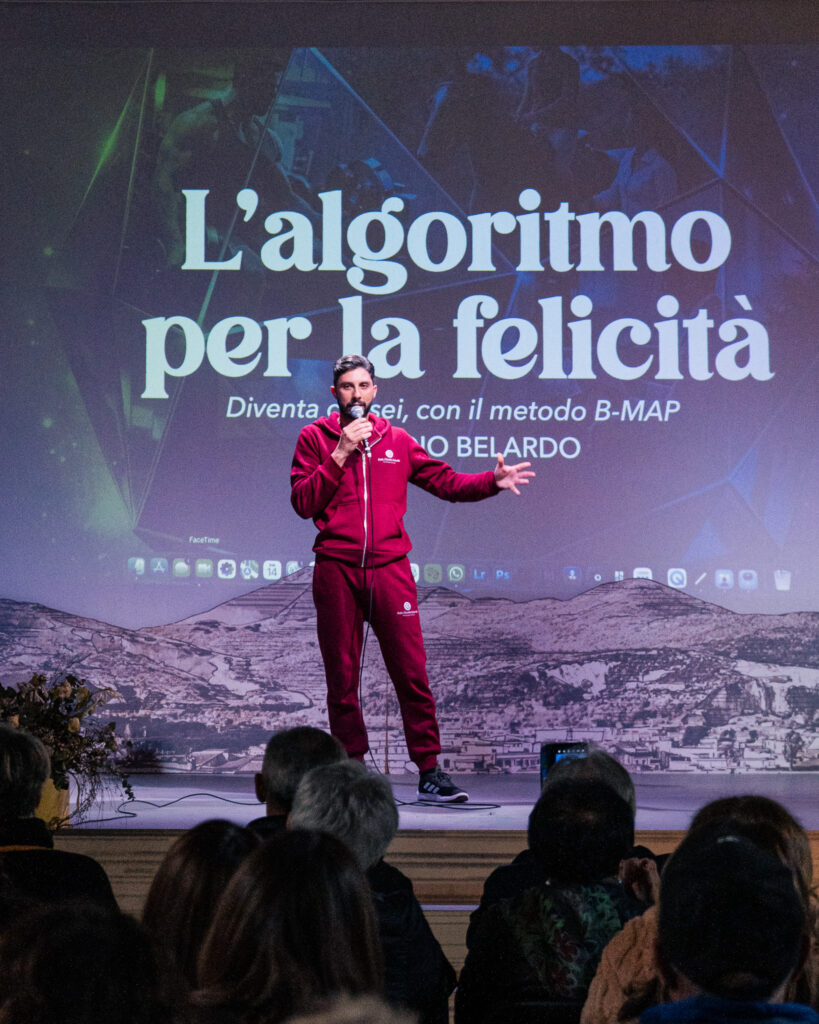
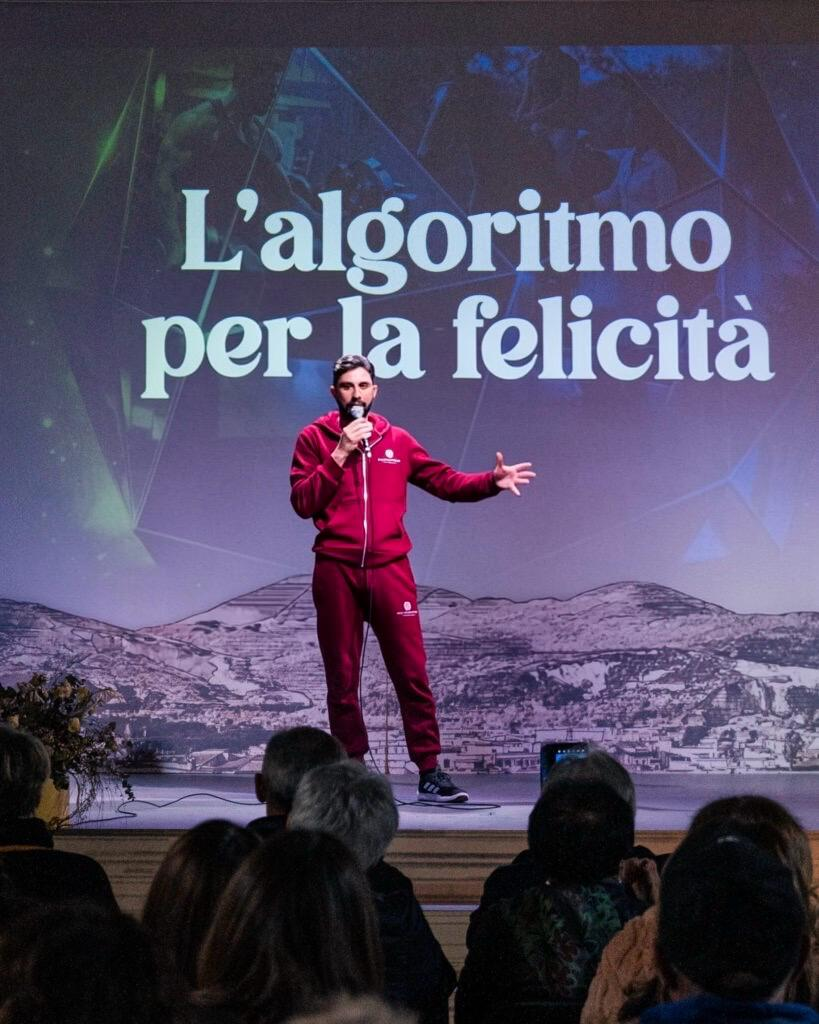
porcodio

Changed region(s): [[0.1526, 0.3125, 0.8242, 0.625], [0.7021, 0.5312, 0.9768, 0.5938]]

diff --git a/prenotazioni.html b/prenotazioni.html
@@ -195,47 +195,7 @@
       color: var(--ink);
     }
 
-    /* ---------- COME FUNZIONA: percorso a 3 fasi ---------- */
-    .steps-section { margin-bottom: 56px; }
-    .steps-section h2 {
-      font-size: 22px; text-align: center; margin-bottom: 40px;
-    }
-    .steps {
-      display: flex; justify-content: space-between; align-items: flex-start; position: relative;
-    }
-    .step {
-      position: relative; text-align: center; padding: 0 14px; flex: 1;
-      opacity: 0; transform: translateY(14px);
-      animation: fadeUp .6s var(--ease) forwards;
-    }
-    .step:nth-of-type(2) { animation-delay: .15s; }
-    .step:nth-of-type(3) { animation-delay: .3s; }
-    .step:not(:last-child)::after {
-      content: ''; position: absolute; top: 26px; left: 50%; width: 100%; height: 1.5px;
-      background: var(--ink); z-index: 1; transform-origin: left center; transform: scaleX(0);
-      animation: lineFill 1s var(--ease) forwards; animation-delay: .6s;
-    }
-    @keyframes lineFill { to { transform: scaleX(1); } }
-    .step-circle {
-      width: 52px; height: 52px; border-radius: 50%; background: #ffffff;
-      border: 1.5px solid var(--ink); margin: 0 auto 18px; position: relative; z-index: 2;
-      display: flex; align-items: center; justify-content: center;
-      animation: popIn .5s var(--ease) both; animation-delay: .35s;
-    }
-    @keyframes popIn { 0% { transform: scale(.6); } 70% { transform: scale(1.08); } 100% { transform: scale(1); } }
-    .step-circle svg { width: 20px; height: 20px; stroke: var(--ink); }
-    .step-num {
-      position: absolute; top: -4px; right: -4px; width: 20px; height: 20px; border-radius: 50%;
-      background: var(--ink); color: #fff; font-size: 11px; font-weight: 600;
-      display: flex; align-items: center; justify-content: center;
-    }
-    .step h3 { font-size: 16px; margin-bottom: 8px; }
-    .step p { font-size: 14px; color: var(--ink-soft); line-height: 1.6; max-width: 22ch; margin: 0 auto; }
-
-    @media (max-width: 700px) {
-      .steps { flex-direction: column; gap: 34px; }
-      .step:not(:last-child)::after { display: none; }
-    }
+   
 
     /* ---------- FORM SEZIONE ---------- */
     .form-card {
@@ -388,43 +348,11 @@
 
       <!-- Testo descrittivo -->
       <div class="notice-box">
-        <p>Benvenuti nella sezione prenotazioni del Dott. Belardo. A seguito dei correnti impegni istituzionali e delle attività cliniche e di consulenza sul territorio nazionale, la disponibilità per l'accettazione di nuovi pazienti è limitata.</p>
-        <p>Ogni richiesta ricevuta verrà valutata con la massima attenzione per verificare la sostenibilità temporale del percorso, garantendo così gli standard di cura e l'adeguato tempo terapeutico richiesti dal codice deontologico.</p>
+        <p>A seguito dei correnti impegni istituzionali e delle attività cliniche e di consulenza sul territorio nazionale, la disponibilità per l'accettazione di nuovi pazienti è limitata.</p>
         <p>Una volta inviato il modulo, verrete ricontattati per ricevere un riscontro sulla fattibilità della presa in carico o sull'eventuale inserimento in lista d'attesa.</p>
       </div>
 
-      <!-- Come funziona -->
-      <div class="steps-section">
-        <h2>Come funziona</h2>
-        <div class="steps" id="stepsRow">
-          <div class="step">
-            <div class="step-circle">
-              <span class="step-num">1</span>
-              <svg viewBox="0 0 24 24" fill="none" stroke-width="1.6" stroke-linecap="round" stroke-linejoin="round"><path d="M22 2 11 13"/><path d="M22 2 15 22l-4-9-9-4Z"/></svg>
-            </div>
-            <h3>Invio della richiesta</h3>
-            <p>Compili il modulo con i suoi dati e una breve descrizione del suo percorso.</p>
-          </div>
-
-          <div class="step">
-            <div class="step-circle">
-              <span class="step-num">2</span>
-              <svg viewBox="0 0 24 24" fill="none" stroke-width="1.6" stroke-linecap="round" stroke-linejoin="round"><circle cx="11" cy="11" r="7"/><path d="m21 21-4.3-4.3"/></svg>
-            </div>
-            <h3>Valutazione</h3>
-            <p>La richiesta viene analizzata per verificarne la sostenibilità e i tempi terapeutici.</p>
-          </div>
-
-          <div class="step">
-            <div class="step-circle">
-              <span class="step-num">3</span>
-              <svg viewBox="0 0 24 24" fill="none" stroke-width="1.6" stroke-linecap="round" stroke-linejoin="round"><path d="M4 4h16v12H7l-3 3Z"/><path d="m4 4 8 6 8-6"/></svg>
-            </div>
-            <h3>Riscontro</h3>
-            <p>Verrà ricontattato con l'esito: presa in carico o inserimento in lista d'attesa.</p>
-          </div>
-        </div>
-      </div>
+     
 
       <!-- Modulo di contatto -->
       <div class="form-card" id="formCard">

diff --git a/index2.html b/index2.html
@@ -600,7 +600,7 @@
         <div class="hero-photo-wrap">
           <div class="blob"></div>
           <div class="hero-photo" id="tiltPhoto">
-            <img src="claudio2.png" alt="">
+            <img src="claudio.png" alt="">
           </div>
           <div class="accent-ring"></div>
         </div>
@@ -617,10 +617,15 @@
 
 
 
-    <section class="block">
+   <section class="block">
       <div class="wrap">
         <div class="bio-teaser reveal">
-          <img src="claudio2.jpg" alt="Dott. Claudio Belardo">
+          <div style="display: flex; flex-direction: column; gap: 10px; align-items: center;">
+            <img src="claudio2.jpg" alt="Dott. Claudio Belardo" style="width: 100%; border-radius: 12px; object-fit: cover;">
+            <p style="font-size: 13px; color: var(--ink-soft, #555555); text-align: center; line-height: 1.4; margin: 0; padding: 0 4px;">
+              Presentazione del libro “L’Algoritmo per la Felicità”. Incontro divulgativo rivolto al pubblico.
+            </p>
+          </div>
           <div>
             <div class="kicker"><span class="dot"></span>Chi sono</div>
             <h2 style="font-size:26px; margin-bottom:14px;">Sono il Dott. Claudio Belardo, 
@@ -677,7 +682,22 @@ Che si tratti di gestire un momento di forte ansia e stress, di affrontare dinam
 
         </div>
         <div class="service-row reveal">
-          <svg class="ic" viewBox="0 0 24 24" fill="none" stroke="currentColor" stroke-width="1.5"><rect x="3" y="5" width="18" height="14" rx="2"/><path d="m3 7 9 6 9-6"/></svg>
+    <svg class="ic" viewBox="0 0 24 24" fill="none" stroke="currentColor" stroke-width="1.5" stroke-linecap="round" stroke-linejoin="round">
+  <!-- Emisfero Sinistro -->
+  <path d="M12 4C9.2 4 6.8 5.8 6 8.2c-1.2.5-2 1.7-2 3.1 0 1.8 1.2 3.3 2.8 3.8-.3 1-.5 2-.5 3.1 0 2 1.6 3.8 3.8 3.8h1.9V4H12z"/>
+  <!-- Circonvoluzioni Sinistre -->
+  <path d="M7.5 9c1-.2 1.8.8 2 1.6"/>
+  <path d="M6.5 13.5c1.2.2 2.1 1 2.3 2"/>
+
+  <!-- Emisfero Destro -->
+  <path d="M12 4c2.8 0 5.2 1.8 6 4.2 1.2.5 2 1.7 2 3.1 0 1.8-1.2 3.3-2.8 3.8.3 1 .5 2 .5 3.1 0 2-1.6 3.8-3.8 3.8h-1.9V4H12z"/>
+  <!-- Circonvoluzioni Destre -->
+  <path d="M16.5 9c-1-.2-1.8.8-2 1.6"/>
+  <path d="M17.5 13.5c-1.2.2-2.1 1-2.3 2"/>
+
+  <!-- Scissura Centrale (Divisione emisferi) -->
+  <path d="M12 4v18"/>
+</svg>
           <div><h3>Psicologia dello Sport e Mental Training</h3><p>Percorsi di preparazione mentale, ottimizzazione della performance agonistica, gestione dell'ansia da prestazione e sviluppo del potenziale per atleti, squadre e allenatori.</p></div>
   
         </div>
@@ -689,7 +709,7 @@ Che si tratti di gestire un momento di forte ansia e stress, di affrontare dinam
     <section class="cta-band">
       <div class="wrap">
         <h2 class="reveal">Non sai quale percorso fa per te?</h2>
-        <a href="prenotazioni.html" class="btn btn-primary magnetic reveal" >Parliamone insieme
+        <a href="prenotazioni.html" class="btn btn-primary magnetic reveal" >Prenota la Consulenza
           <svg viewBox="0 0 24 24" fill="none" stroke="currentColor" stroke-width="2"><path d="M5 12h14M13 6l6 6-6 6"/></svg>
         </a>
       </div>
@@ -825,8 +845,8 @@ In questo ruolo contribuisco alla promozione di una cultura sportiva attenta all
   <section class="page" id="page-social" data-page="social">
     <div class="wrap page-header">
       <div class="kicker reveal"><span class="dot"></span>Social</div>
-      <h1 class="reveal">Restiamo in contatto</h1>
-      <p class="lead reveal">Seguimi sui social per contenuti su benessere psicologico, gestione delle emozioni e performance — e per scrivermi direttamente in ogni momento.</p>
+      <h1 class="reveal">Resta aggiornato</h1>
+      <p class="lead reveal">Seguimi sui social per contenuti su benessere psicologico, gestione delle emozioni e performance.</p>
     </div>
     <div class="wrap">
       <div class="social-orbit">
